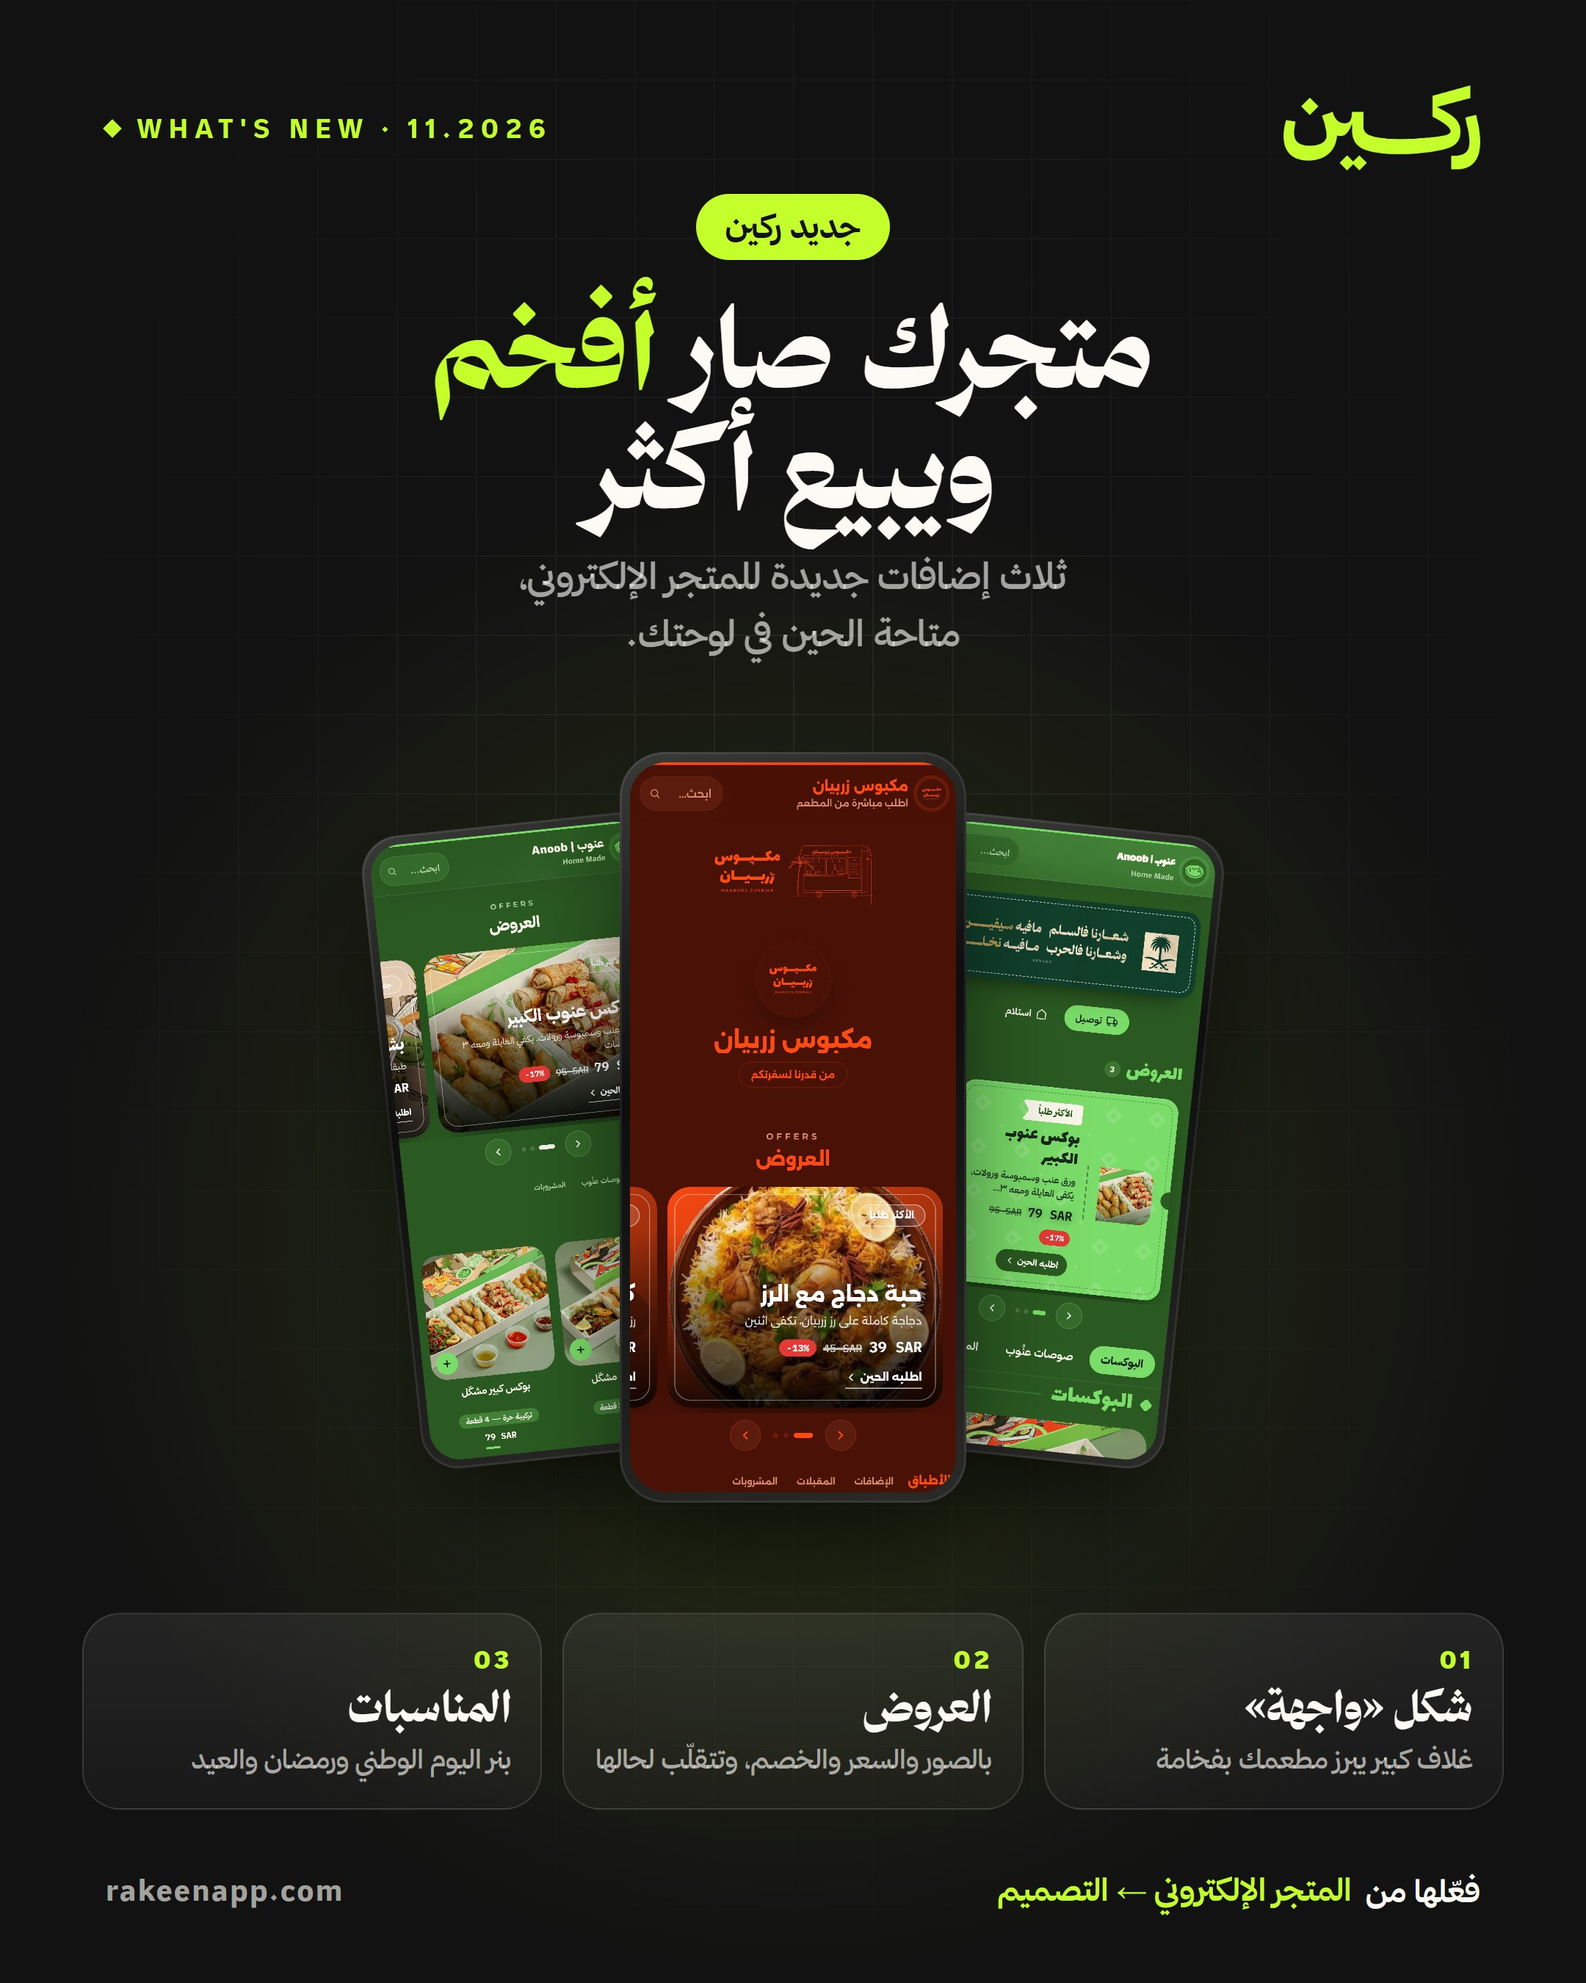
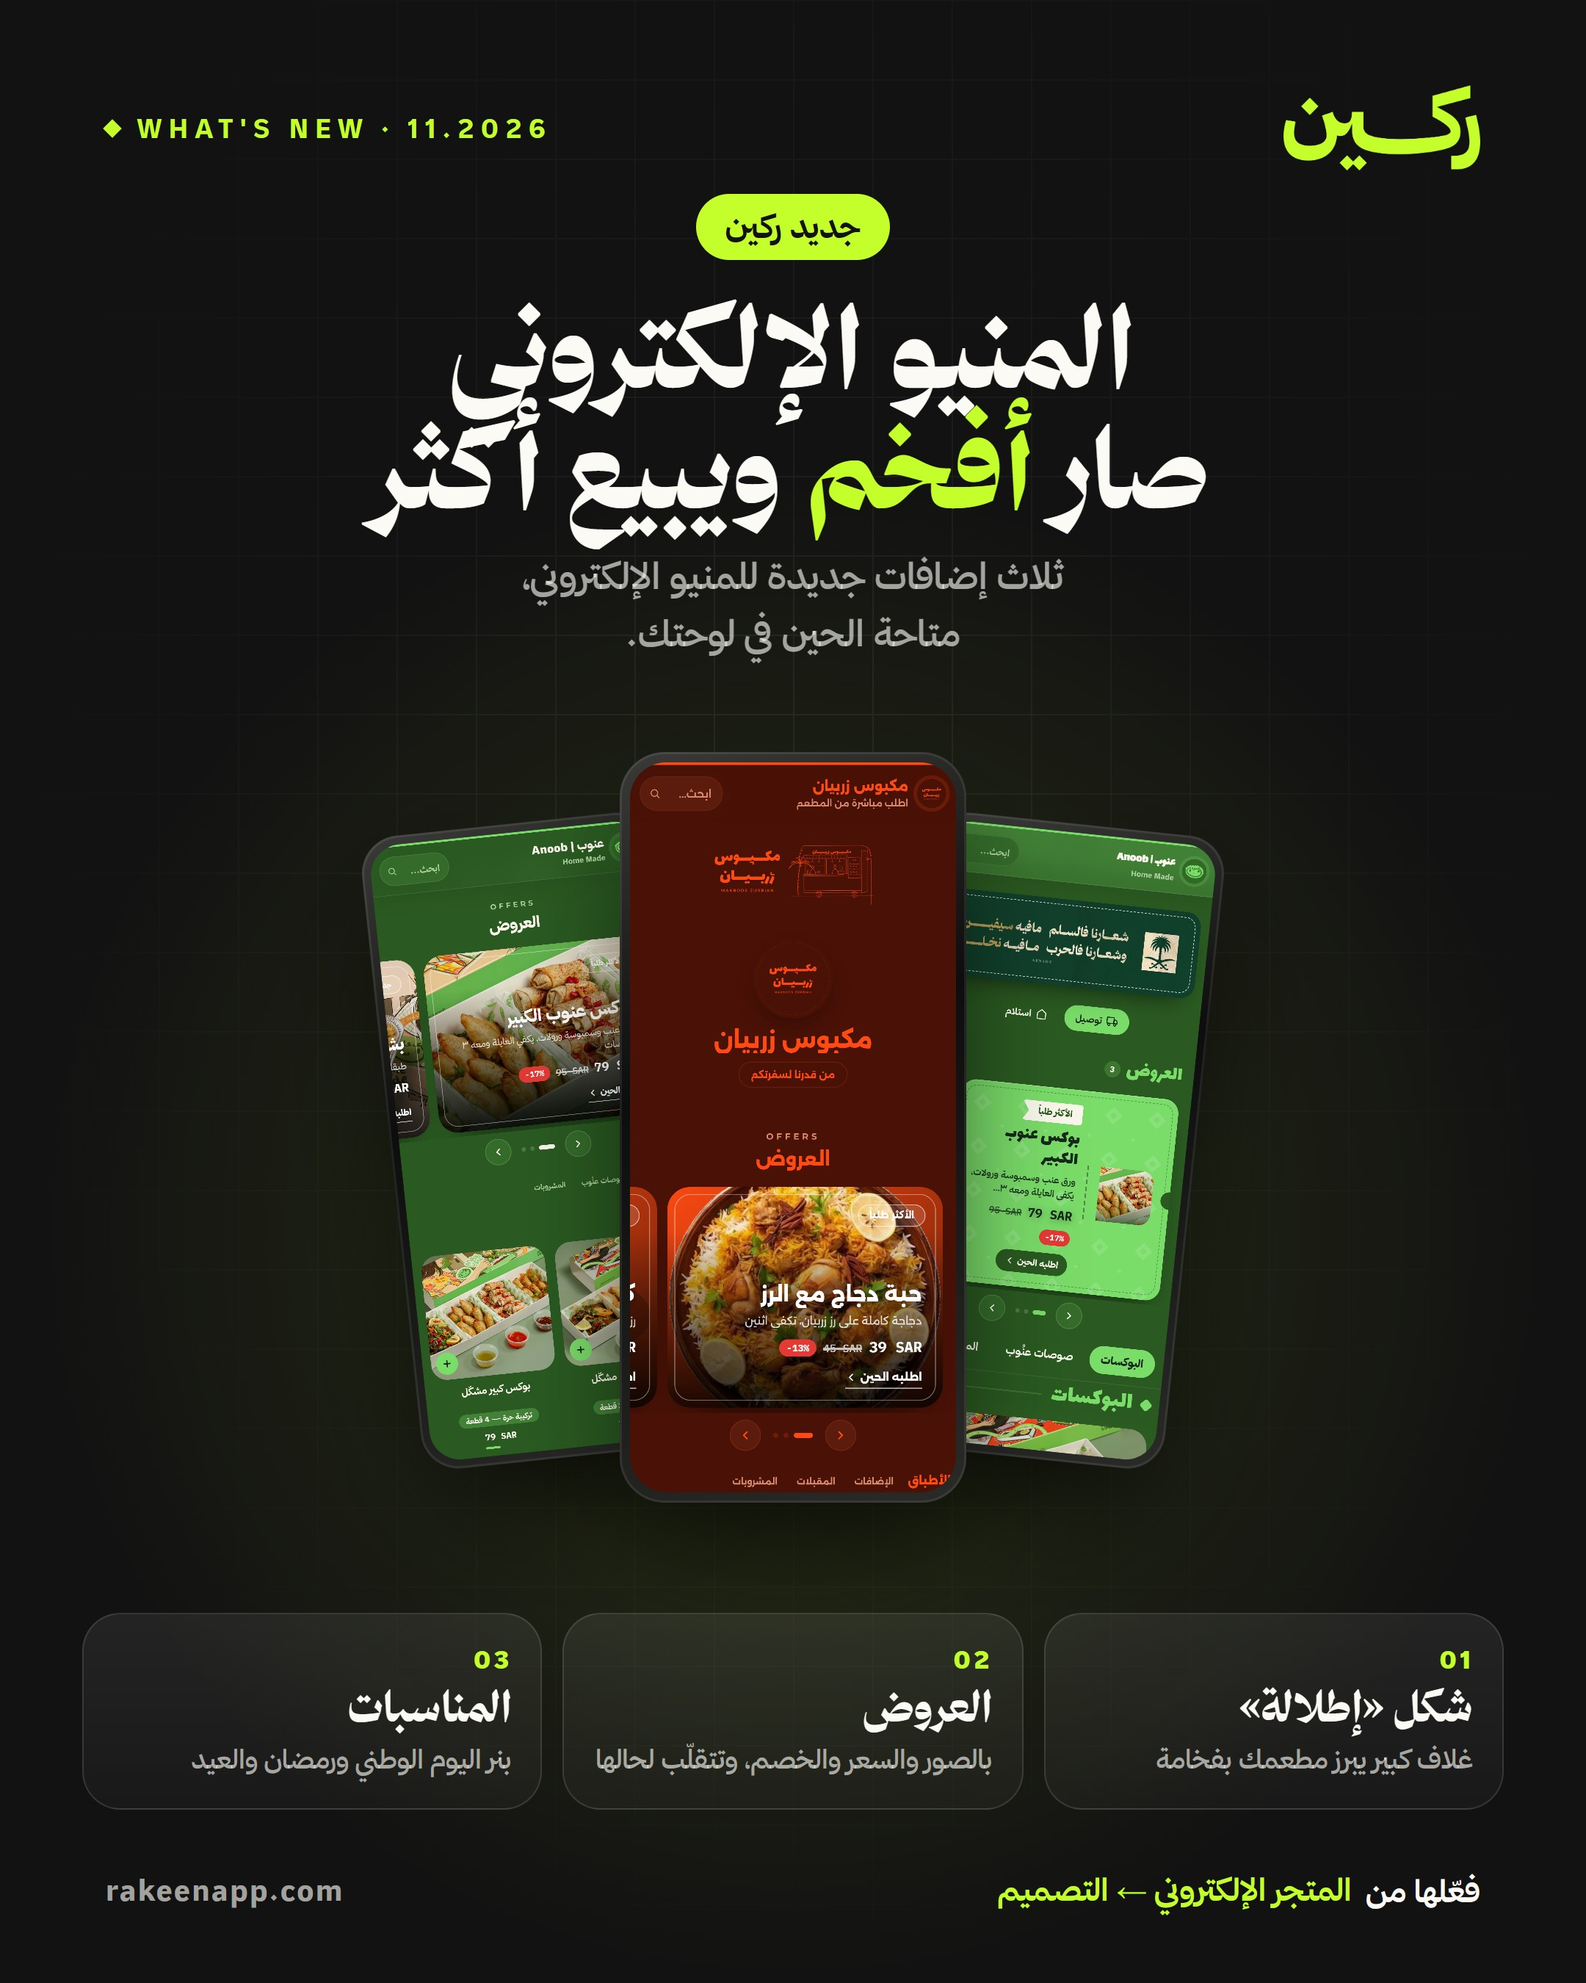
Rename online-menu themes to ديوان/مخمل/أصيل/إطلالة; store post says المنيو الإلكتروني
Display names only (values classic/luxury/folk/facade unchanged) in the
design tab radios, theme-options header and the guided assistant. The
«جديد ركين» store post, WhatsApp text and poster now talk about the online
menu instead of «متجرك».

Changed region(s): [[0.2171, 0.1244, 0.7755, 0.3111], [0.7755, 0.84, 0.8685, 0.8711]]

diff --git a/public/dashboard/rakeen-dashboard.js b/public/dashboard/rakeen-dashboard.js
@@ -13822,27 +13822,27 @@ function onlineMenuDesignHtml(){
           <div class="online-radio-card-row rk-theme-style-row" style="display:flex; flex-wrap:wrap; gap:10px; margin-top:4px;">
             <label style="flex:1; display:flex; flex-direction:column; gap:4px; padding:12px 14px; border:2px solid ${ONLINE_THEME_STYLE==='classic'?'var(--lime-deep)':'var(--line)'}; border-radius:12px; cursor:pointer;">
               <span style="display:flex; align-items:center; gap:8px; font-weight:800; font-size:13px;">
-                <input type="radio" name="settingsOnlineThemeStyle" value="classic" ${ONLINE_THEME_STYLE==='classic'?'checked':''}> كلاسيكي
+                <input type="radio" name="settingsOnlineThemeStyle" value="classic" ${ONLINE_THEME_STYLE==='classic'?'checked':''}> ديوان
               </span>
               <span style="font-size:11.5px; color:var(--muted); margin-inline-start:22px;">كروت مربعة مرتبة</span>
             </label>
             <label style="flex:1; display:flex; flex-direction:column; gap:4px; padding:12px 14px; border:2px solid ${ONLINE_THEME_STYLE==='luxury'?'var(--lime-deep)':'var(--line)'}; border-radius:12px; cursor:pointer;">
               <span style="display:flex; align-items:center; gap:8px; font-weight:800; font-size:13px;">
-                <input type="radio" name="settingsOnlineThemeStyle" value="luxury" ${ONLINE_THEME_STYLE==='luxury'?'checked':''}> فخم
+                <input type="radio" name="settingsOnlineThemeStyle" value="luxury" ${ONLINE_THEME_STYLE==='luxury'?'checked':''}> مخمل
               </span>
               <span style="font-size:11.5px; color:var(--muted); margin-inline-start:22px;">بنر كبير وصور بلا صناديق</span>
             </label>
             <label style="flex:1; display:flex; flex-direction:column; gap:4px; padding:12px 14px; border:2px solid ${ONLINE_THEME_STYLE==='folk'?'var(--lime-deep)':'var(--line)'}; border-radius:12px; cursor:pointer;">
               <span style="display:flex; align-items:center; gap:8px; font-weight:800; font-size:13px;">
-                <input type="radio" name="settingsOnlineThemeStyle" value="folk" ${ONLINE_THEME_STYLE==='folk'?'checked':''}> شعبي
+                <input type="radio" name="settingsOnlineThemeStyle" value="folk" ${ONLINE_THEME_STYLE==='folk'?'checked':''}> أصيل
               </span>
               <span style="font-size:11.5px; color:var(--muted); margin-inline-start:22px;">لون الهوية كامل، خط عريض، وعروض بشكل تذكرة</span>
             </label>
             <label style="flex:1; display:flex; flex-direction:column; gap:4px; padding:12px 14px; border:2px solid ${ONLINE_THEME_STYLE==='facade'?'var(--lime-deep)':'var(--line)'}; border-radius:12px; cursor:pointer;">
               <span style="display:flex; align-items:center; gap:8px; font-weight:800; font-size:13px;">
-                <input type="radio" name="settingsOnlineThemeStyle" value="facade" ${ONLINE_THEME_STYLE==='facade'?'checked':''}> واجهة
+                <input type="radio" name="settingsOnlineThemeStyle" value="facade" ${ONLINE_THEME_STYLE==='facade'?'checked':''}> إطلالة
               </span>
-              <span style="font-size:11.5px; color:var(--muted); margin-inline-start:22px;">فخم وبسيط، وصورة الغلاف كبيرة ونظيفة والشعار والاسم تحتها</span>
+              <span style="font-size:11.5px; color:var(--muted); margin-inline-start:22px;">هادئ وبسيط، وصورة الغلاف كبيرة ونظيفة والشعار والاسم تحتها</span>
             </label>
           </div>
           <style>.rk-theme-style-row > label{min-width:150px;}</style>
@@ -14321,7 +14321,7 @@ function renderThemeOptions(style){
   }
   const o = Object.assign({}, d, THEME_OPTS_DRAFT[style] || {});
   const box = (inner) => `<div style="border:1px solid var(--line); border-radius:12px; padding:12px 14px;">
-    <div style="font-weight:800; font-size:13px; margin-bottom:10px;">خيارات شكل «${style === 'folk' ? 'شعبي' : 'واجهة'}»</div>${inner}</div>`;
+    <div style="font-weight:800; font-size:13px; margin-bottom:10px;">خيارات شكل «${style === 'folk' ? 'أصيل' : 'إطلالة'}»</div>${inner}</div>`;
   const chk = (key, label) => `<div style="margin-bottom:6px;">${rkCheck(`data-topt="${key}" ${o[key] ? 'checked' : ''}`, label)}</div>`;
   if(style === 'folk'){
     host.innerHTML = box(chk('featuredFirst', 'أول صنف في أول قسم كرت عريض') + chk('teeth', 'حافة مسننة تحت رأس الصفحة'));
@@ -26019,7 +26019,7 @@ RKA.registerManager({
           const steps = [];
           steps.push({ key:'pick', type:'choose', prompt:'وش تبي تضبط في شكل المتجر؟',
             options: [
-              { value:'style', label:'شكل الصفحة (كلاسيكي / فخم / شعبي / واجهة)' + ' — الآن: ' + ({ classic:'كلاسيكي', luxury:'فخم', folk:'شعبي', facade:'واجهة' }[b.themeStyle] || 'كلاسيكي') },
+              { value:'style', label:'شكل الصفحة (ديوان / مخمل / أصيل / إطلالة)' + ' — الآن: ' + ({ classic:'ديوان', luxury:'مخمل', folk:'أصيل', facade:'إطلالة' }[b.themeStyle] || 'ديوان') },
               { value:'color', label:'اللون الرئيسي — الآن: ' + b.themeColor },
               { value:'font', label:'الخط — الآن: ' + (b.font === 'thmanyah' ? 'Thmanyah' : 'ركين') },
               { value:'taglineHeader', label:'العبارة أعلى الصفحة' },
@@ -26028,11 +26028,11 @@ RKA.registerManager({
             ] });
           if(a.pick === 'style'){
             steps.push({ key:'st', type:'choose', prompt:'شكل صفحة الطلب؟',
-              hint:'<b>كلاسيكي</b>: كروت مربّعة مرتّبة — أوضح لمنيو كبير.\n<b>فخم</b>: بنر كبير وصور بلا صناديق — أنسب لمطعم قليل الأصناف ويعتمد على الصور.\n<b>شعبي</b>: رأس الصفحة بلون الهوية كامل، خط عريض للأسماء والأسعار، والعروض بشكل تذكرة.\n<b>واجهة</b>: فخم وبسيط، وميزته الهيدر: صورة الغلاف كبيرة (أو بطول الشاشة) ونظيفة بدون كتابة فوقها، والشعار والاسم تحتها.',
-              options: [ { value:'classic', label:'كلاسيكي' + (b.themeStyle === 'classic' ? ' (الحالي)' : ''), primary: b.themeStyle === 'classic' }, { value:'luxury', label:'فخم' + (b.themeStyle === 'luxury' ? ' (الحالي)' : ''), primary: b.themeStyle === 'luxury' }, { value:'folk', label:'شعبي' + (b.themeStyle === 'folk' ? ' (الحالي)' : ''), primary: b.themeStyle === 'folk' }, { value:'facade', label:'واجهة' + (b.themeStyle === 'facade' ? ' (الحالي)' : ''), primary: b.themeStyle === 'facade' } ] });
+              hint:'<b>ديوان</b>: كروت مربّعة مرتّبة — أوضح لمنيو كبير.\n<b>مخمل</b>: بنر كبير وصور بلا صناديق — أنسب لمطعم قليل الأصناف ويعتمد على الصور.\n<b>أصيل</b>: رأس الصفحة بلون الهوية كامل، خط عريض للأسماء والأسعار، والعروض بشكل تذكرة.\n<b>إطلالة</b>: هادئ وبسيط، وميزته الهيدر: صورة الغلاف كبيرة (أو بطول الشاشة) ونظيفة بدون كتابة فوقها، والشعار والاسم تحتها.',
+              options: [ { value:'classic', label:'ديوان' + (b.themeStyle === 'classic' ? ' (الحالي)' : ''), primary: b.themeStyle === 'classic' }, { value:'luxury', label:'مخمل' + (b.themeStyle === 'luxury' ? ' (الحالي)' : ''), primary: b.themeStyle === 'luxury' }, { value:'folk', label:'أصيل' + (b.themeStyle === 'folk' ? ' (الحالي)' : ''), primary: b.themeStyle === 'folk' }, { value:'facade', label:'إطلالة' + (b.themeStyle === 'facade' ? ' (الحالي)' : ''), primary: b.themeStyle === 'facade' } ] });
             if(a.st !== undefined) steps.push({ key:'stExec', type:'execute', idemKind:'ostyle', pending:'أحفظ…',
               run: async (ans) => { await rkaOnlineSaveBiz({ online_theme_style: ans.st }, 'غيّر شكل المتجر', rkaOnlineMirror);
-                return { message:'صار الشكل «' + ({ classic:'كلاسيكي', luxury:'فخم', folk:'شعبي', facade:'واجهة' }[ans.st] || 'كلاسيكي') + '» ✓ — شوف النتيجة في تبويب «التصميم» (معاينة حية).' }; } });
+                return { message:'صار الشكل «' + ({ classic:'ديوان', luxury:'مخمل', folk:'أصيل', facade:'إطلالة' }[ans.st] || 'ديوان') + '» ✓ — شوف النتيجة في تبويب «التصميم» (معاينة حية).' }; } });
           } else if(a.pick === 'color'){
             steps.push({ key:'col', type:'ask', prompt:'اللون الرئيسي؟ اكتب كود اللون (hex)',
               hint:'مثل <b dir="ltr">C7FF4D</b> أو <b dir="ltr">#B7834A</b>. لو ما تدري الكود، افتح تبويب «التصميم» فيه منتقي ألوان بصري.',

diff --git a/app/dashboard/rakeen-updates.ts b/app/dashboard/rakeen-updates.ts
@@ -47,16 +47,16 @@ export const RAKEEN_UPDATES: RakeenUpdate[] = [
     id: "2026-11-store-luxe",
     date: "2026-11-07",
     tag: "ميزة جديدة",
-    title: "متجرك صار أفخم ويبيع أكثر",
-    body: "ثلاث إضافات جديدة للمتجر الإلكتروني، تبين لعميلك أول ما يفتح متجرك.",
+    title: "المنيو الإلكتروني صار أفخم ويبيع أكثر",
+    body: "ثلاث إضافات جديدة للمنيو الإلكتروني، تبين لعميلك أول ما يفتحه.",
     points: [
-      { title: "شكل «واجهة»", text: "غلاف كبير بمقاس صورتك يعرض مطعمك بفخامة، وتقدر تخفي الشعار والاسم لو الغلاف فيه هم." },
+      { title: "شكل «إطلالة»", text: "غلاف كبير بمقاس صورتك يعرض مطعمك بفخامة، وتقدر تخفي الشعار والاسم لو الغلاف فيه هم." },
       { title: "العروض", text: "بطاقات بالصور والسعر قبل وبعد الخصم، تتقلّب لحالها ويسحبها عميلك، وتفتح الصنف بضغطة." },
       { title: "المناسبات", text: "بنر اليوم الوطني ويوم التأسيس ورمضان والعيد، أو صورة من مصممك، يطلع ويختفي بالتاريخ." },
     ],
     image: "/dashboard/updates/2026-11-store.jpg",
     cta: { label: "جرّبها الحين", screen: "onlineMenu", tab: "design", focus: "storeOffersSection" },
     poster: "/dashboard/updates/2026-11-store-luxe-post.jpg",
-    whatsapp: "السلام عليكم {الاسم} 👋\n\n*جديد ركين: متجرك صار أفخم ويبيع أكثر* ✨\n\n▫ *شكل «واجهة»*: غلاف كبير يبرز {المحل} بفخامة\n▫ *العروض*: بطاقات بالصور والسعر قبل وبعد الخصم، تتقلّب لحالها\n▫ *المناسبات*: بنر اليوم الوطني ويوم التأسيس ورمضان والعيد\n\n📍 من لوحة التحكم ← المتجر الإلكتروني ← التصميم\n\nركين 💚",
+    whatsapp: "السلام عليكم {الاسم} 👋\n\n*جديد ركين: المنيو الإلكتروني صار أفخم ويبيع أكثر* ✨\n\n▫ *شكل «إطلالة»*: غلاف كبير يبرز {المحل} بفخامة\n▫ *العروض*: بطاقات بالصور والسعر قبل وبعد الخصم، تتقلّب لحالها\n▫ *المناسبات*: بنر اليوم الوطني ويوم التأسيس ورمضان والعيد\n\n📍 من لوحة التحكم ← المتجر الإلكتروني ← التصميم\n\nركين 💚",
   },
 ];
